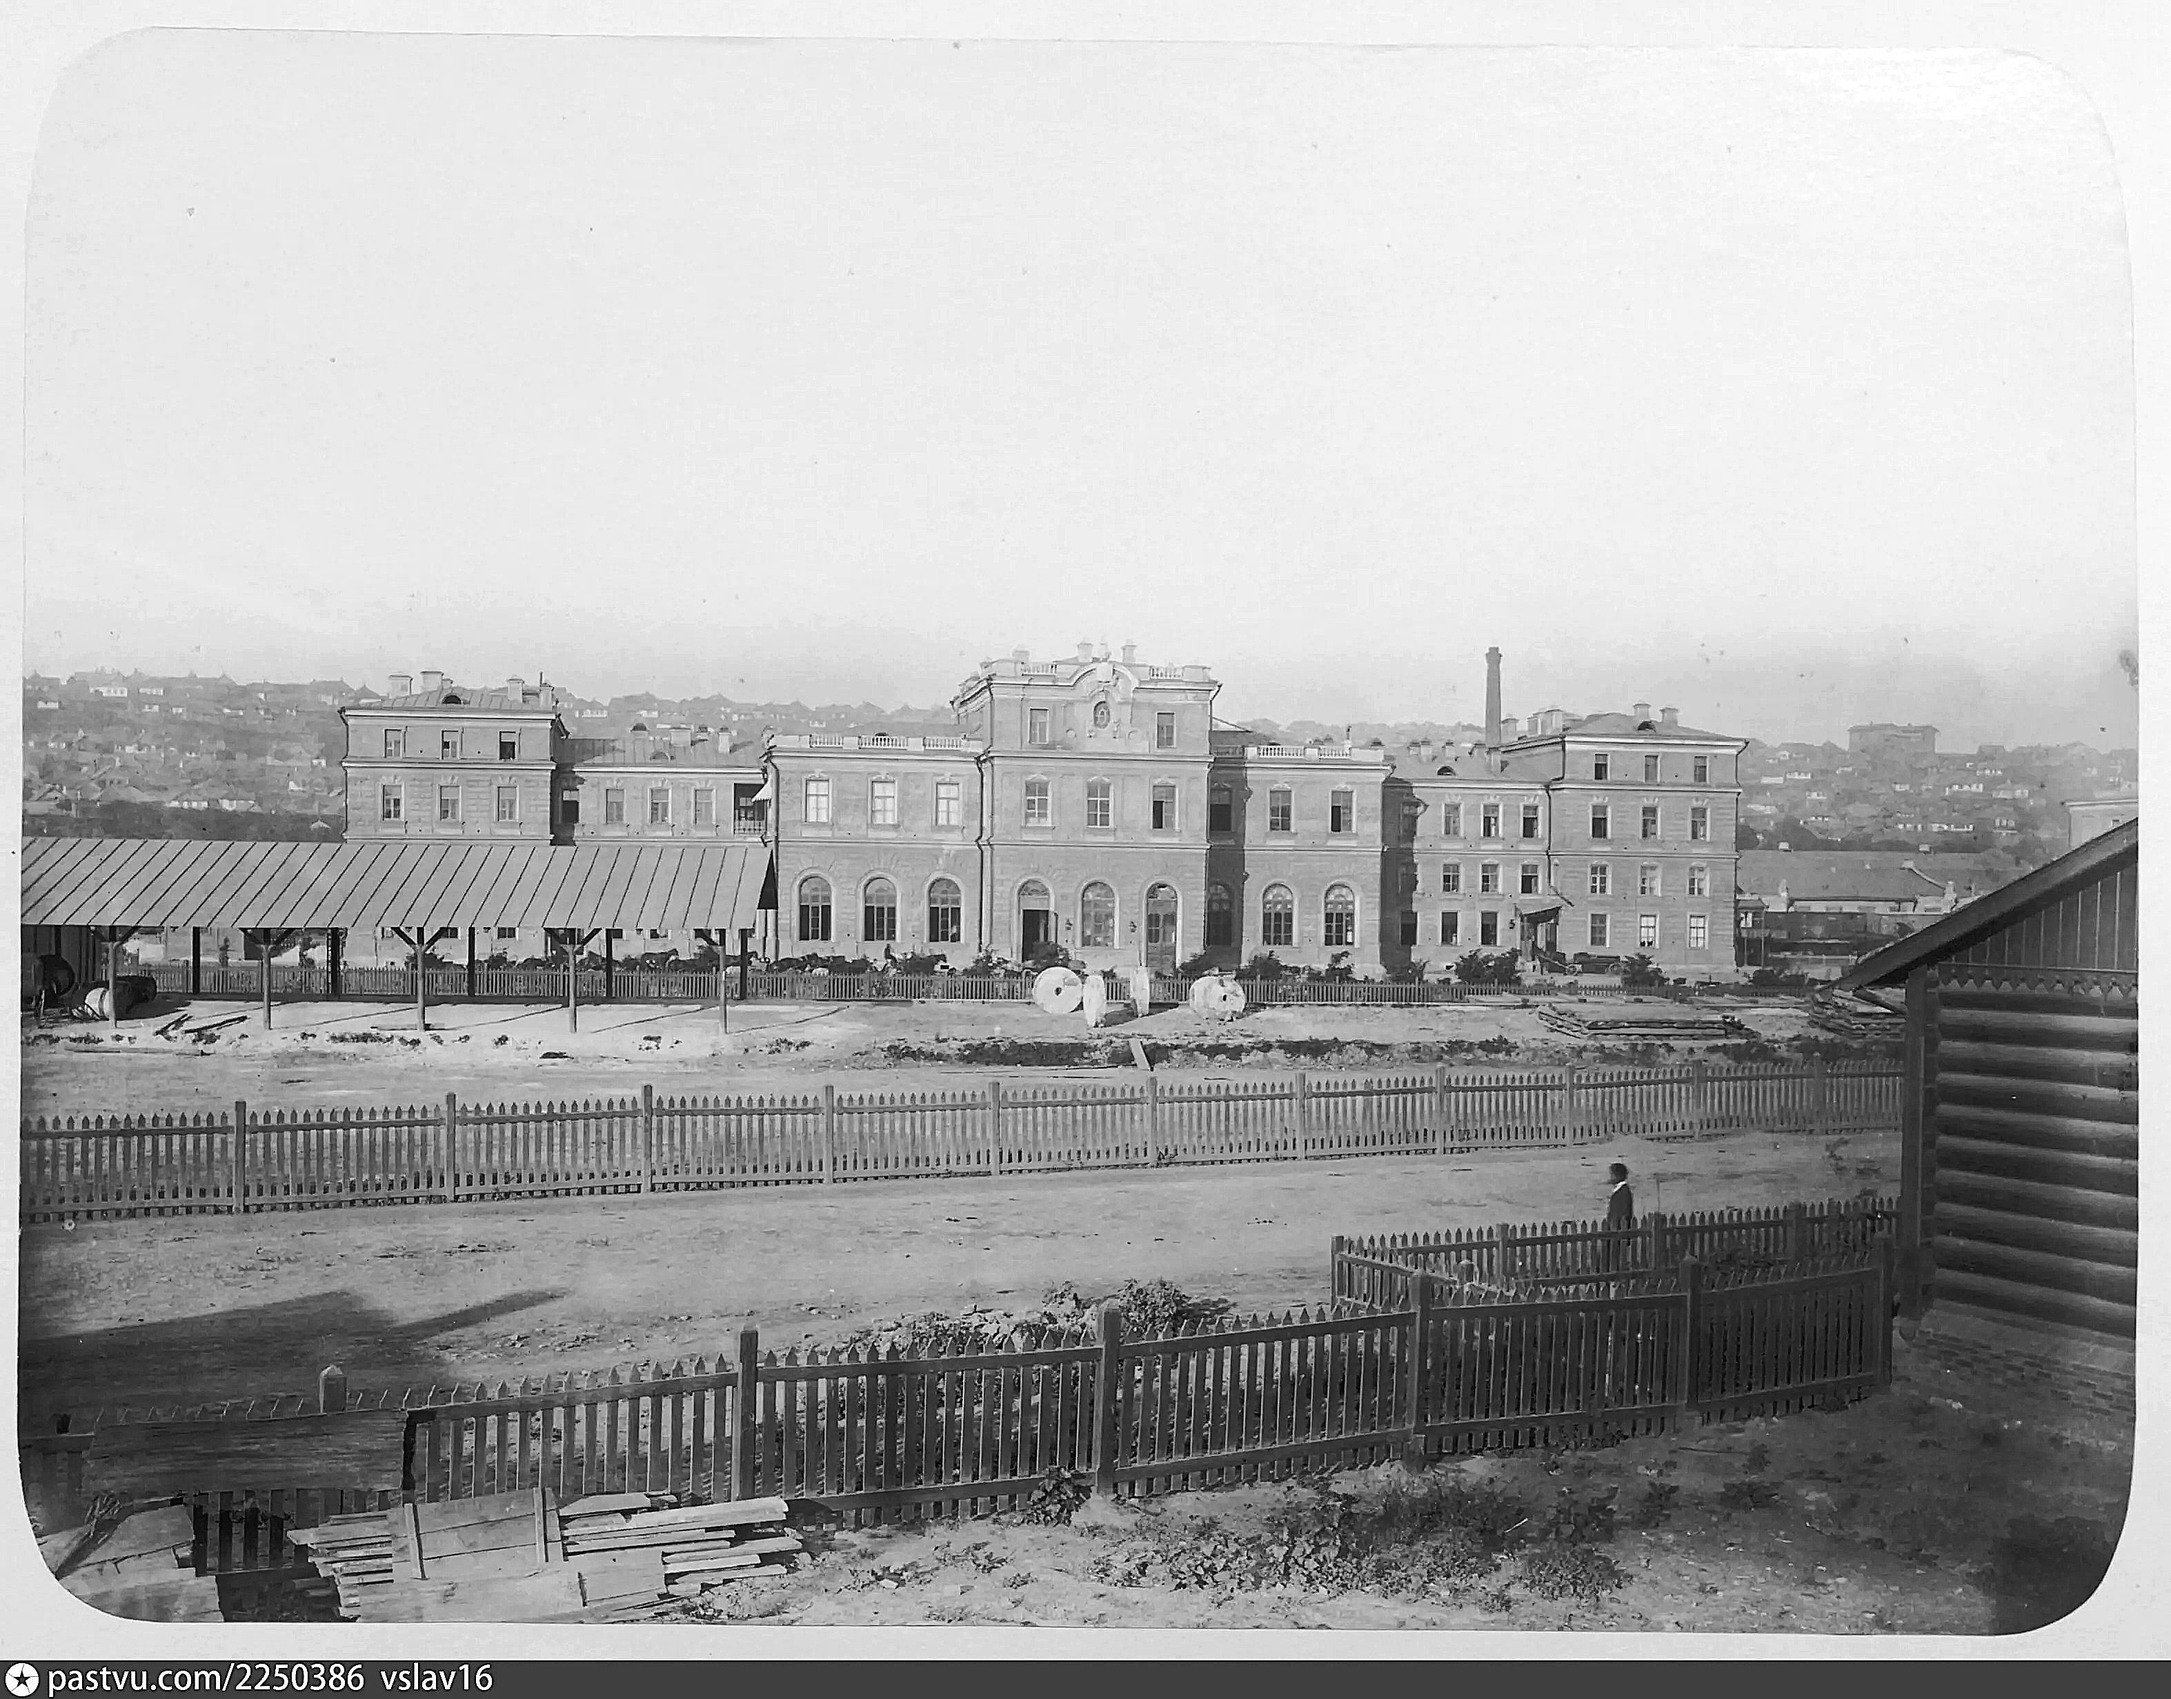
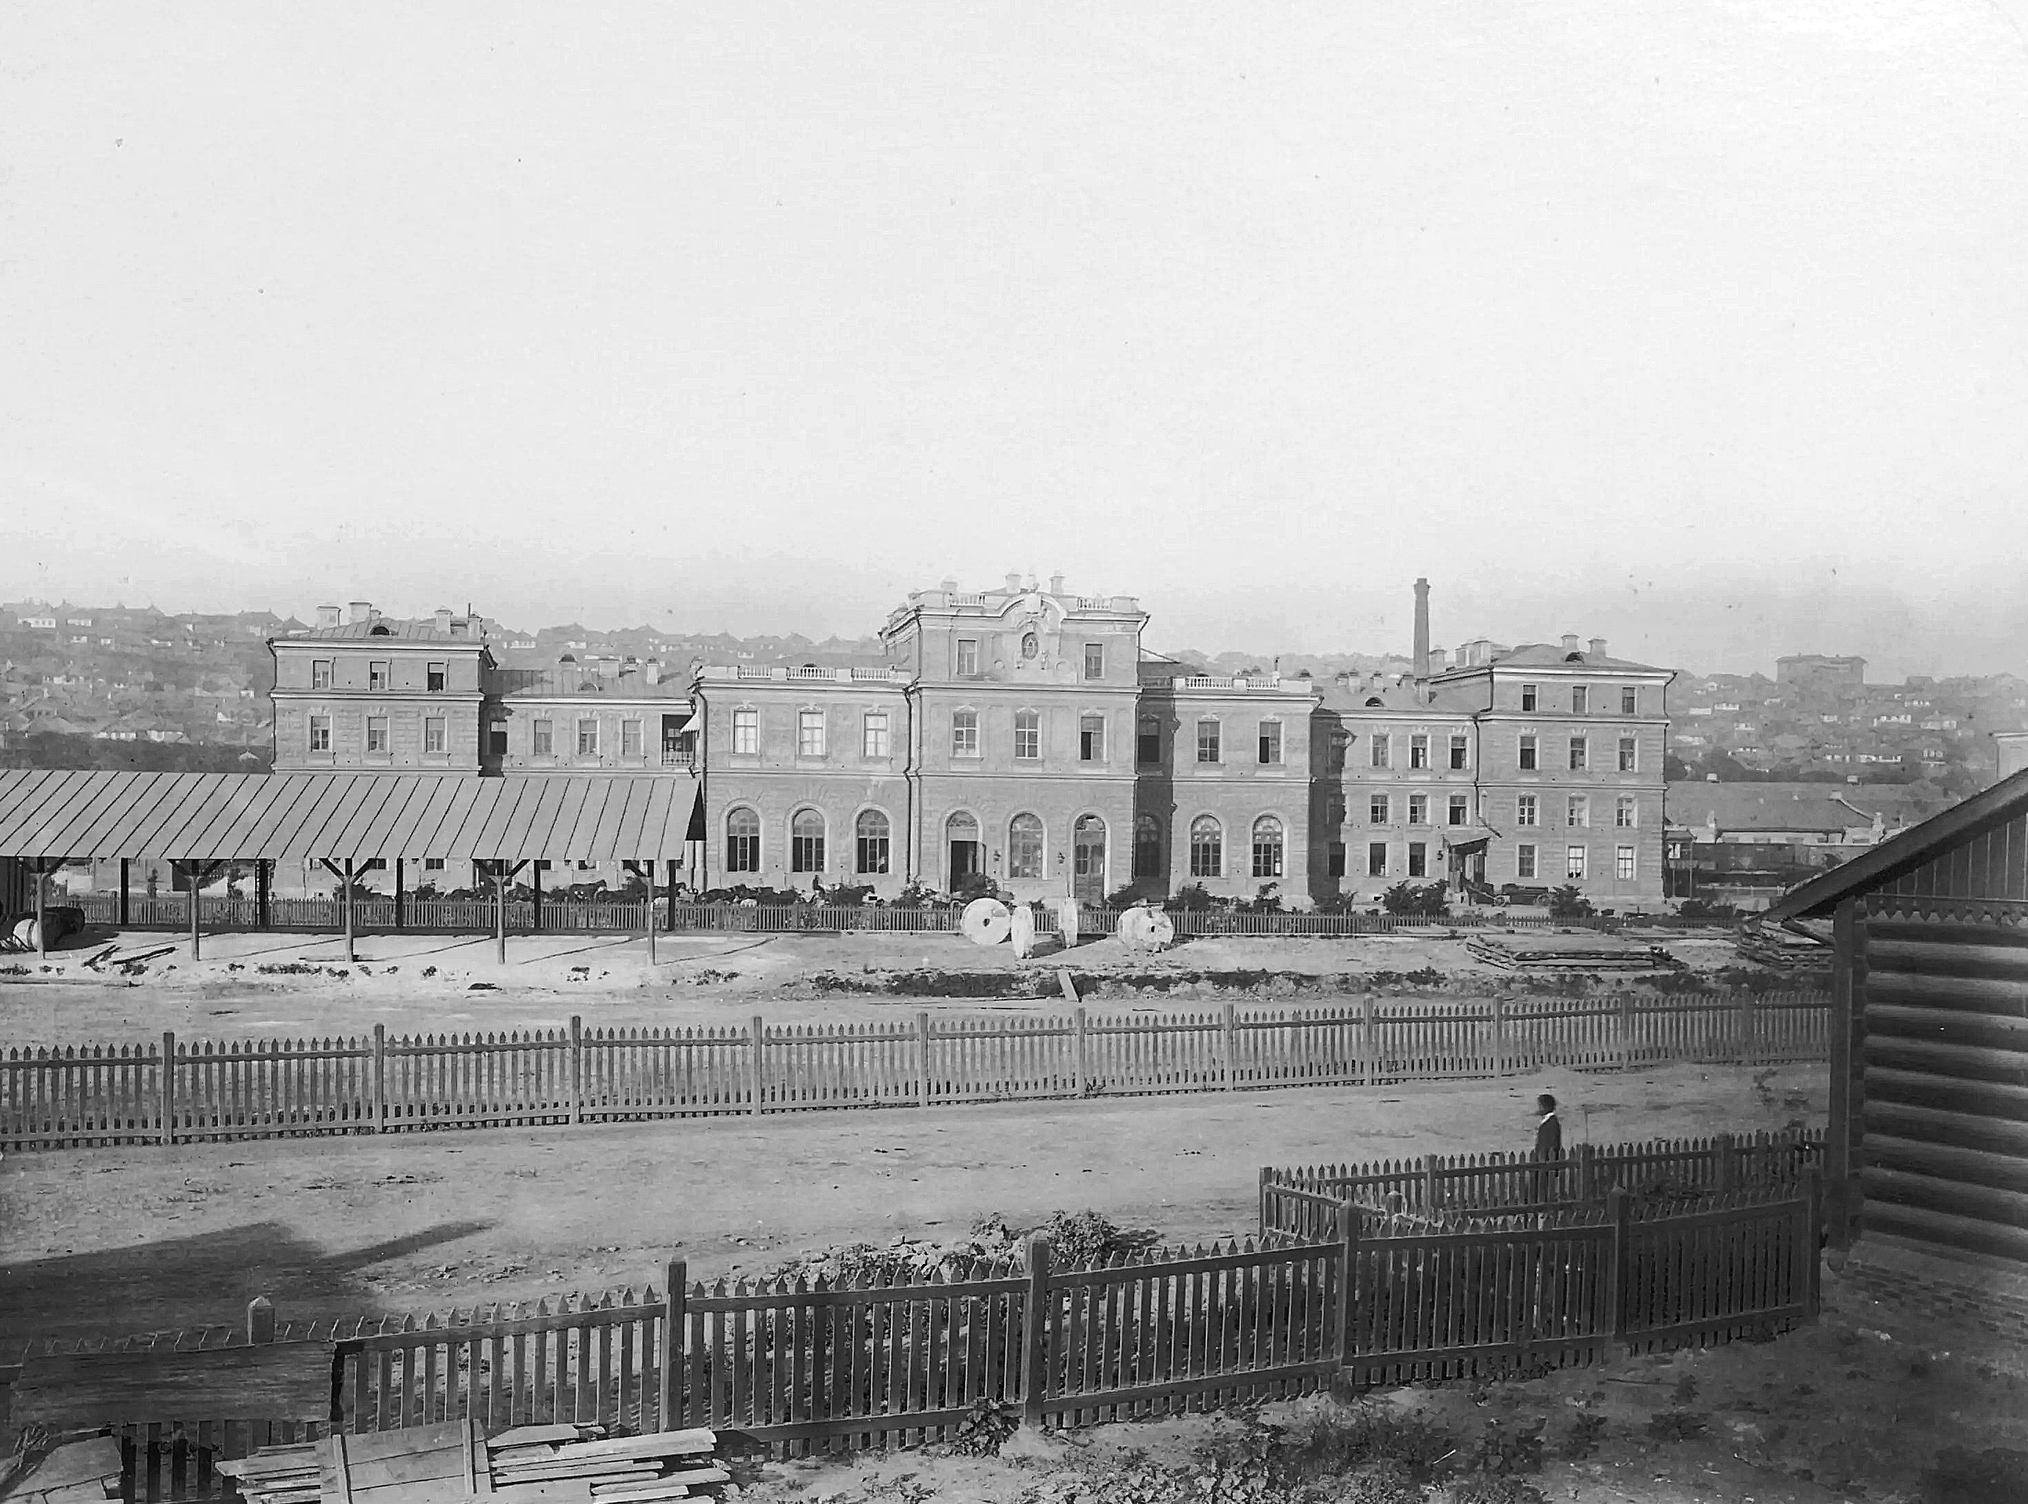
pages content

diff --git a/src/App.vue b/src/App.vue
@@ -3,25 +3,28 @@
     <div :style="{ display: 'fixed', height: headerHeight }" class="main-header">
       <div class="header-container"
         :style="{ minWidth: mainWidth, maxWidth: mainWidth, display: 'flex', marginLeft: 'auto', marginRight: 'auto', alignItems: 'center' }">
-        <v-img src="/images/header/1.png" alt="Логотип" :width="headerHeight" :height="headerHeight"
-          style="margin: 2px;" />
+        <v-btn to="/" variant="plain" :ripple="false" class="pa-0 ma-0"
+          style="min-width: 0; width: auto; height: auto; opacity: 1;">
+          <v-img src="/images/header/1.png" alt="Логотип" :width="headerHeight" :height="headerHeight"
+            style="margin: 2px;" />
+        </v-btn>
         <div class="header-text text-secondary shadow">География дала Ростову шанс<br />Байков превратил этот шанс в
           судьбу
         </div>
         <div>
-          <v-btn variant="plain" to="/premise" selected-class="selected">
+          <v-btn size="large" variant="plain" to="/" exact-match selected-class="selected">
             {{ mainTexts?.menuText?.pagePremise }}
           </v-btn>
-          <v-btn variant="plain" to="/tansformations" selected-class="selected">
+          <v-btn size="large" variant="plain" exact-match to="/tansformations" selected-class="selected">
             {{ mainTexts?.menuText?.pagetTansformations }}
           </v-btn>
-          <v-btn variant="plain" to="/stat" selected-class="selected">
+          <v-btn size="large" variant="plain" exact-match to="/stat" selected-class="selected">
             {{ mainTexts?.menuText?.pageStat }}
           </v-btn>
-          <v-btn variant="plain" to="/person" selected-class="selected">
+          <v-btn size="large" variant="plain" exact-match to="/person" selected-class="selected">
             {{ mainTexts?.menuText?.pagePerson }}
           </v-btn>
-          <v-btn variant="plain" to="/" exact selected-class="selected">
+          <v-btn size="large" variant="plain" exact-match to="/objects" exact selected-class="selected">
             {{ mainTexts?.menuText?.pageObjects }}
           </v-btn>
         </div>
@@ -72,6 +75,9 @@ const mainWidth = 1280;
     0px 2px 6px rgba(0, 0, 0, 0.4);
 }
 
+.router-link-exact-active .v-btn__content {
+  text-decoration: underline !important;
+}
 
 /* Полностью отключаем дефолтный скролл окна */
 html,
@@ -91,7 +97,9 @@ body {
   width: 100% !important;
   z-index: 9999 !important;
   pointer-events: none;
-  /* Пропускаем клики сквозь прозрачные области шапки */
+  background: linear-gradient(to bottom,
+      rgba(255, 255, 255, 1) 0%,
+      rgba(255, 255, 255, 0) 100%);
 }
 
 .header-container {
@@ -117,6 +125,10 @@ body {
 /* Стили для активных кнопок */
 .v-selected--active {
   font-weight: bold;
+}
+
+.v-btn--active {
+  text-decoration: underline !important;
 }
 
 .header-text {

diff --git a/src/components/Results.vue b/src/components/Results.vue
@@ -1,17 +1,21 @@
 <template>
-  <h3>{{ title }}</h3>
-  <v-img :width="255" aspect-ratio="4/3" cover src="/images/results/1.png"></v-img>
-  <div>
-    {{ populationGrowth.title }}
-  </div>
-  <div>
-    {{ populationGrowth.text }}
-  </div>
-  <div>
-    {{ tradeGrowth.title }}
-  </div>
-  <div>
-    {{ tradeGrowth.text }}
+  <div class="results-container" style="display: flex; gap: 20px;">
+    <v-img src="/images/results/1.png"
+      style="width: calc(var(--main-width) / 1.5); margin-left: auto; margin-right: auto;" />
+    <div>
+      <h2>
+        {{ populationGrowth.title }}
+      </h2>
+      <p>
+        {{ populationGrowth.text }}
+      </p>
+      <h2>
+        {{ tradeGrowth.title }}
+      </h2>
+      <p>
+        {{ tradeGrowth.text }}
+      </p>
+    </div>
   </div>
 </template>
 
@@ -26,3 +30,13 @@ const tradeGrowth = {
   text: 'График отражает переход Ростова от хаотичной провинциальной торговли к статусу экономического лидера Юга России. До Байкова город задыхался без свободных денег. Создание Конторы Государственного банка (1861 г.) и Общества взаимного кредита дали местным купцам дешёвые оборотные кредиты, убрав зависимость от столичных ростовщиков. ',
 }
 </script>
+
+<style scoped>
+p {
+  font-size: 20px;
+}
+
+.results-container>* {
+  flex: 1;
+}
+</style>

diff --git a/src/components/Start.vue b/src/components/Start.vue
@@ -1,9 +1,31 @@
 <template>
-  <h3>{{ title }}</h3>
-  <h5>{{ subtitle }}</h5>
-  <div v-for="item in text">
-    {{ item }}
+  <div class="results-container" style="display: flex1; gap: 20px;">
+    <v-img src="/images/start/1.png"
+      style="width: calc(var(--main-width) / 1.5); margin-left: auto; margin-right: auto;" />
+    <div>
+      <h2>
+        {{ title }}
+      </h2>
+      <p>
+        {{ text[0] }}
+      </p>
+    </div>
   </div>
+  <div class="results-container" style="display: flex1; gap: 20px;">
+    <div>
+      <h2>
+        {{ subtitle }}
+      </h2>
+      <p>
+        {{ text[1] }}
+      </p>
+    </div>
+    <v-img src="/images/start/3.jpg"
+      style="width: calc(var(--main-width) / 1.5); margin-left: auto; margin-right: auto;" />
+  </div>
+  <h2>
+    {{ text[2] }}
+  </h2>
 </template>
 
 <script setup lang="ts">
@@ -15,3 +37,13 @@ const text = [
   'Сама география говорила: городу нужен был только сильный управленец, чтобы превратить это преимущество в экономическую мощь.',
 ]
 </script>
+
+<style scoped>
+p {
+  font-size: 20px;
+}
+
+.results-container>* {
+  flex: 1;
+}
+</style>

diff --git a/src/pages/premise.vue b/src/pages/premise.vue
@@ -5,6 +5,11 @@
       <v-img :width="255" aspect-ratio="4/3" cover :src="`images/start/${key}`"></v-img>
     </div>
   </div>
+
+  <div class="image-section" style="display: flex; justify-content: center; align-items: center; background: #d9d6cd;">
+    <img src="/images/fon/1.jpeg" class="full-width-img faded-img"
+      :style="{ maxHeight: 'calc(100vh - var(--header-height))', width: 'auto', opacity: 0.5 }" />
+  </div>
 </template>
 
 <script lang="ts" setup>
@@ -15,6 +20,9 @@ import Start from '@/components/Start.vue';
 <style scoped>
 .block {
   padding-top: var(--header-height);
+  width: var(--main-width);
+  margin-left: auto;
+  margin-right: auto;
 }
 
 .image-section {

diff --git a/src/pages/stat.vue b/src/pages/stat.vue
@@ -1,5 +1,12 @@
-<template>1
-  <Results class="block" />
+<template>
+  <div class="block">
+    <Results />
+  </div>
+
+  <div class="image-section" style="display: flex; justify-content: center; align-items: center; background: #d9d6cd;">
+    <img src="/images/fon/3.jpeg" class="full-width-img faded-img"
+      :style="{ maxHeight: 'calc(100vh - var(--header-height))', width: 'auto', opacity: 0.5 }" />
+  </div>
 </template>
 
 <script lang="ts" setup>
@@ -10,5 +17,8 @@ import Results from '@/components/Results.vue';
 <style scoped>
 .block {
   padding-top: var(--header-height);
+  width: var(--main-width);
+  margin-left: auto;
+  margin-right: auto;
 }
 </style>

diff --git a/src/router/index.ts b/src/router/index.ts
@@ -13,11 +13,11 @@ const router = createRouter({
       component: Person,
     },
     {
-      path: '/premise',
+      path: '/',
       component: Premise,
     },
     {
-      path: '/',
+      path: '/objects',
       component: Objects,
     },
     {
